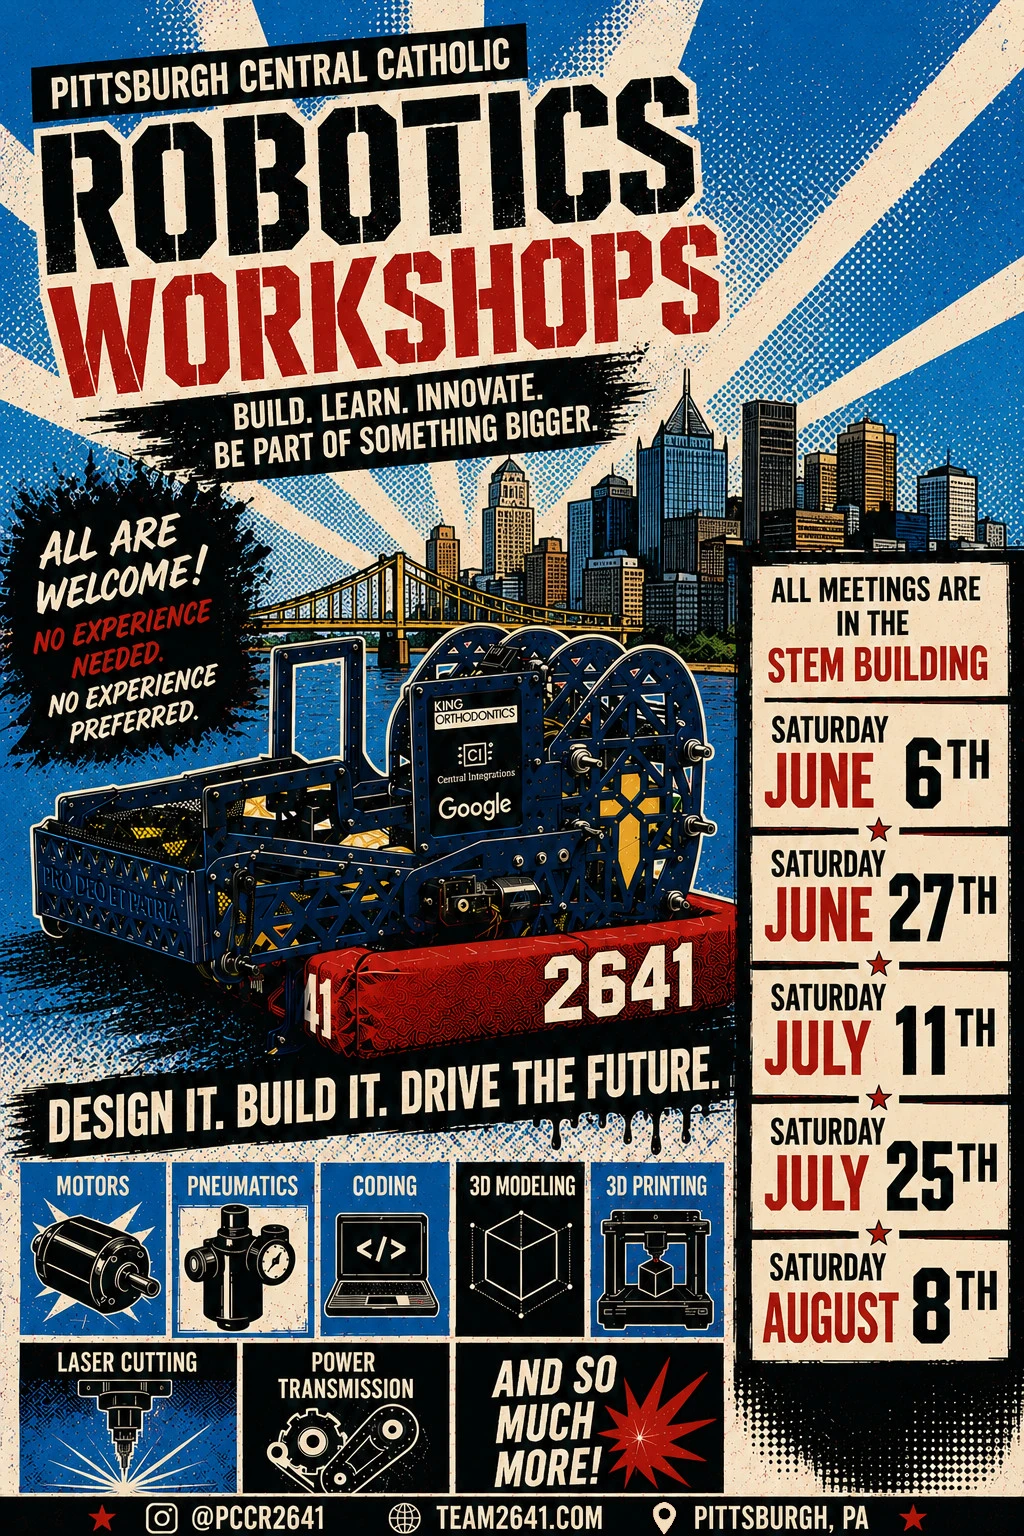
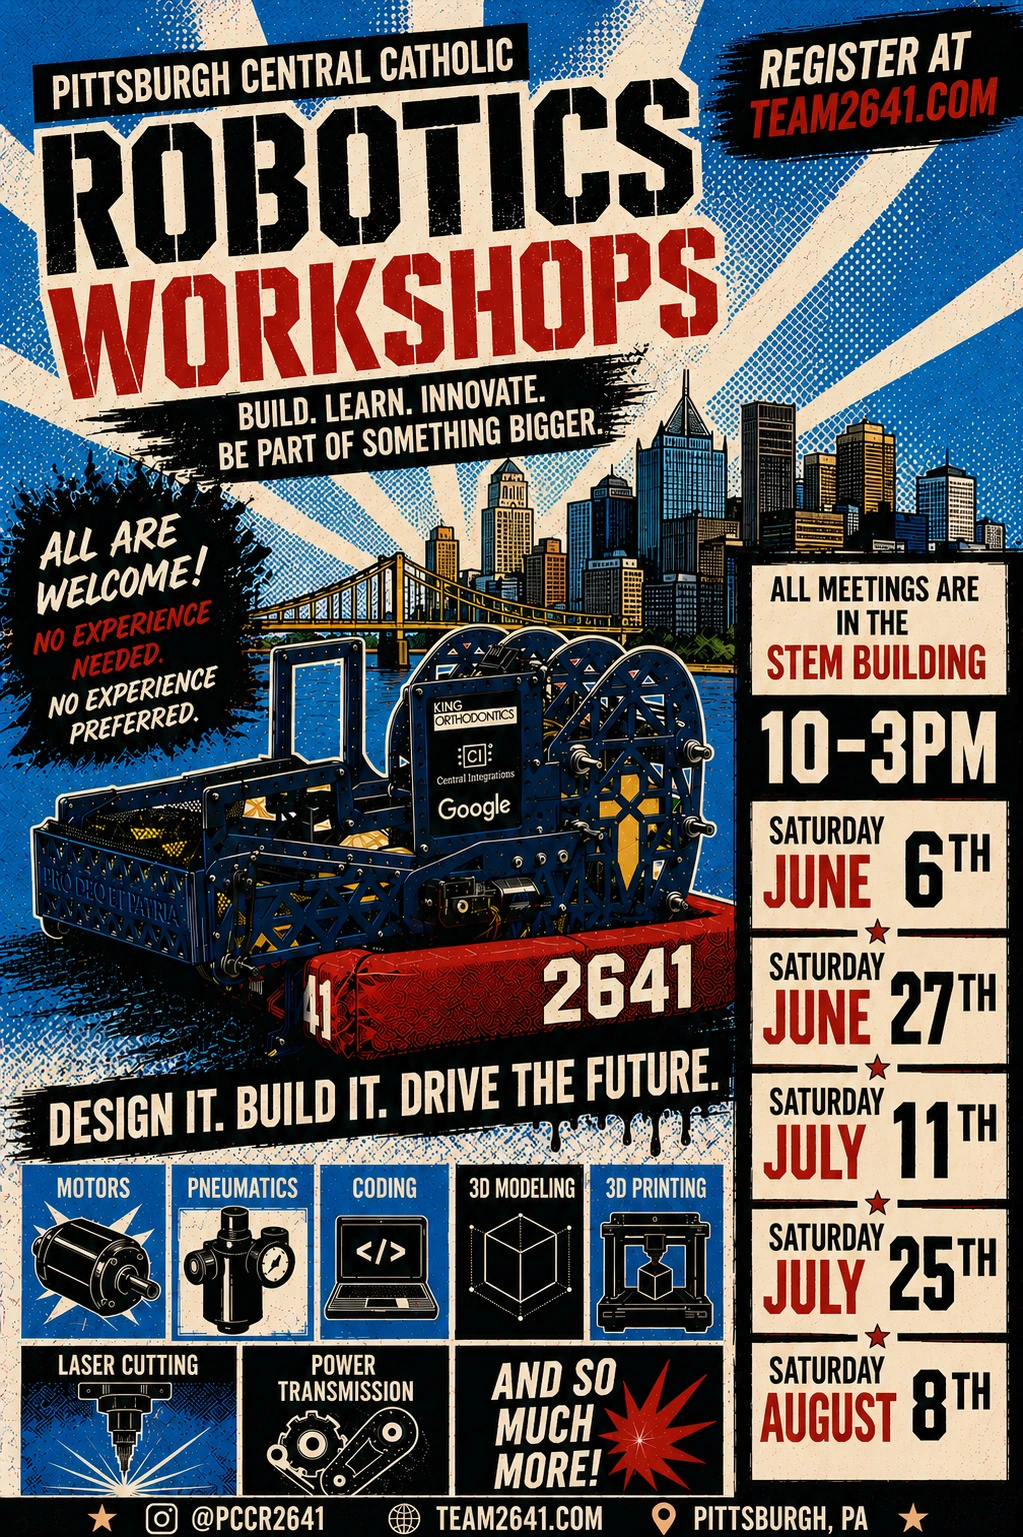
Updated flyer

diff --git a/pages/workshops.vue b/pages/workshops.vue
@@ -228,7 +228,7 @@ let workshops = ref([
   },
 ]);
 
-for (const workshop of workshops.value) {
+for (const workshop of workshops.value || []) {
   data.value.workshops[workshop.date] = true;
 }
 
@@ -267,7 +267,8 @@ async function send() {
       workshops: {},
     };
 
-    for (const workshop of workshops.value) {
+    // @ts-ignore
+    for (const workshop of workshops.value || []) {
       data.value.workshops[workshop.date] = true;
     }
   } catch (err) {